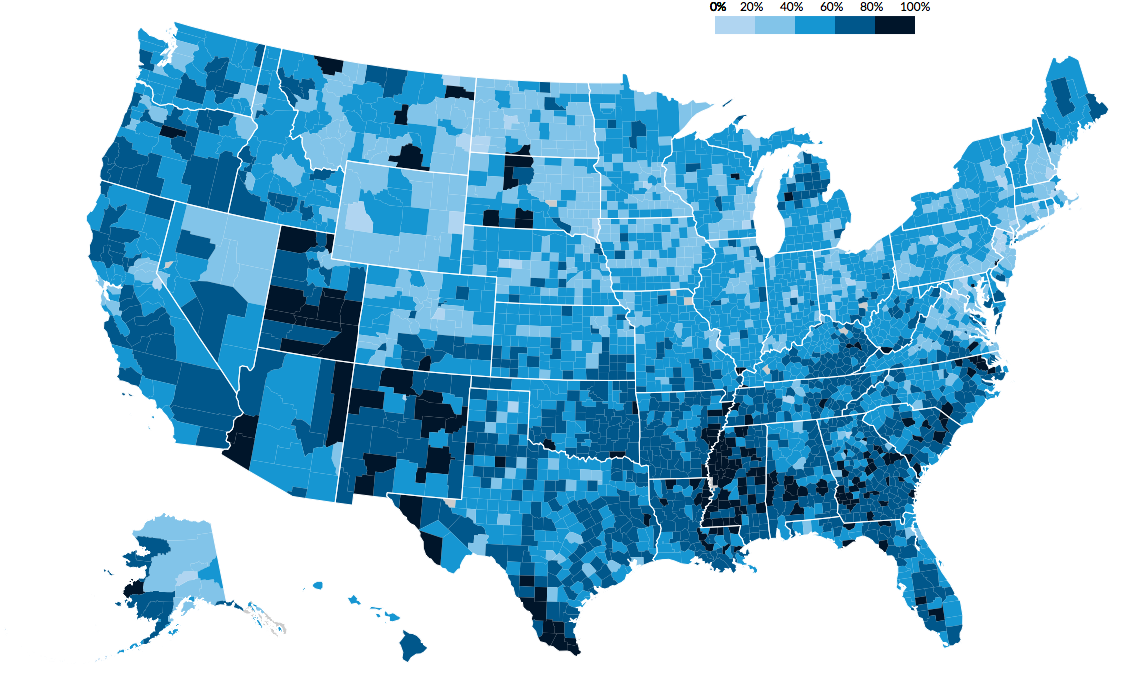
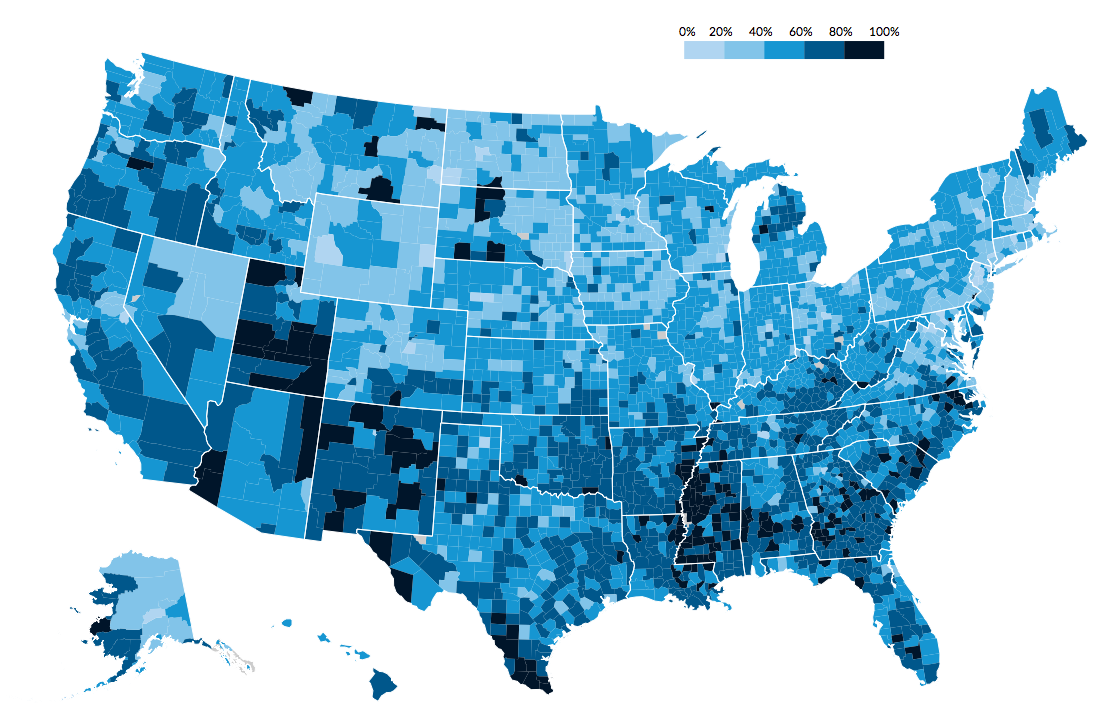
fixed legend left issue and updated examples

diff --git a/js/responsive-map.js b/js/responsive-map.js
@@ -40,7 +40,6 @@ d3.helper.tooltip = function (accessor) {
             .on("mouseout", function (d, i) {
                 tooltipDiv.remove();
             });
-
     };
 };
 
@@ -128,6 +127,20 @@ function urbanmap(container_width) {
         .enter().append("g")
         .attr("class", "legend");
 
+    lsvg.append("text")
+        .attr("x", lp_w - 5)
+        .attr("y", 15)
+        .text(formatter(legend_left));
+
+    legend.append("text")
+        .attr("x", function (d, i) {
+            return (i * ls_w) + lp_w + ls_w - 15;
+        })
+        .attr("y", 15)
+        .text(function (d, i) {
+            return formatter(d);
+        });
+
     legend.append("rect")
         .attr("x", function (d, i) {
             return (i * ls_w) + lp_w;
@@ -139,20 +152,6 @@ function urbanmap(container_width) {
         .style("fill", function (d, i) {
             return colors[i];
         })
-
-    legend.append("text")
-        .attr("x", function (d, i) {
-            return (i * ls_w) + lp_w + ls_w - 15;
-        })
-        .attr("y", 15)
-        .text(function (d, i) {
-            return formatter(d);
-        });
-
-    legend.append("text")
-        .attr("x", lp_w - 5)
-        .attr("y", 15)
-        .text(formatter(legend_left));
 
     var projection = d3.geo.albersUsa()
         .scale(width * 1.25)
@@ -190,7 +189,6 @@ function urbanmap(container_width) {
         .enter().append("path")
         .attr("d", path);
 
-    // This is calling an updated height.
     if (pymChild) {
         pymChild.sendHeight();
     }
@@ -203,9 +201,7 @@ $(window).load(function () {
                 us = json;
 
                 data.forEach(function (d) {
-                    //need to accommodate string fips, like in school poverty data (leading 0s)
                     d[countyid] = +d[countyid];
-                    //missing data! deal with it!
                     if (d[valuetomap] == nullcondition) {
                         value[d[countyid]] = null;
                     } else {
@@ -213,13 +209,12 @@ $(window).load(function () {
                     }
                 });
 
-                // This is instantiating the child message with a callback but AFTER the D3 charts are drawn.
                 pymChild = new pym.Child({
                     renderCallback: urbanmap
                 });
             })
         });
-    } else { // If not, rely on static fallback image. No callback needed.
+    } else { 
         pymChild = new pym.Child({});
     }
 });

diff --git a/index.html b/index.html
@@ -24,20 +24,14 @@
 <body>
     <h1>This is a page with some maps in it</h1>
 
-    <p>gjksfgdfjsgljdflkgjfdlkgjsldfkgk kgjdlfkjgldsf</p>
+    <p>Lorem ipsum dolor sit amet, consectetur adipiscing elit, sed do eiusmod tempor incididunt ut labore et dolore magna aliqua. Ut enim ad minim veniam, quis nostrud exercitation ullamco laboris nisi ut aliquip ex ea commodo consequat. Duis aute irure dolor in reprehenderit in voluptate velit esse cillum dolore eu fugiat nulla pariatur. Excepteur sint occaecat cupidatat non proident, sunt in culpa qui officia deserunt mollit anim id est laborum.</p>
     <div id="map1" class="map"></div>
-    <p>paragraph of texttttt</p>
-    <div id="map2" class="map"></div>
-    <p>paragraph of texttttt</p>
+    <p>Lorem ipsum dolor sit amet, consectetur adipiscing elit, sed do eiusmod tempor incididunt ut labore et dolore magna aliqua. Ut enim ad minim veniam, quis nostrud exercitation ullamco laboris nisi ut aliquip ex ea commodo consequat. Duis aute irure dolor in reprehenderit in voluptate velit esse cillum dolore eu fugiat nulla pariatur. Excepteur sint occaecat cupidatat non proident, sunt in culpa qui officia deserunt mollit anim id est laborum.</p>
     <div id="map3" class="map"></div>
-    <p>paragraph of texttttt</p>
 
     <script type="text/javascript" src="lib/pym.min.js"></script>
     <script>
         var pymParent = new pym.Parent('map1', 'map1.html', {});
-    </script>
-    <script>
-        var second = new pym.Parent('map2', 'map2.html', {});
     </script>
     <script>
         var second = new pym.Parent('map3', 'map3.html', {});

diff --git a/map3.html b/map3.html
@@ -10,7 +10,7 @@
 
 <body>
 
-    <h2>Map #3 - counts, custom four-color palette</h2>
+    <h2>Map #3 - counts instead of %, custom four-color palette and missing color</h2>
     <div id="legend"></div>
     <div id="map"><img src="img/fallback2.png" alt="[Map]" /></div>
     <div class="footnote"><p>Source: Urban Institute, 2015</p></div>
@@ -27,7 +27,8 @@
         data_url = "data/schoolpoverty.csv",
             valuetomap = "TotalBlack",
             countyid = "fipscounty",
-            colors = ["#feebe2","#fbb4b9","#f768a1","#ae017e"]
+            colors = ["#feebe2","#fbb4b9","#f768a1","#ae017e"],
+            missingcolor = "#000",
             breaks = [200,1000,20000],
             legend_breaks = [200,1000,20000,125000],
             formatter = d3.format('.2s');

diff --git a/map1.html b/map1.html
@@ -10,7 +10,7 @@
 
 <body>
 
-    <h2>Map #1</h2>
+    <h2>Map #1 - all defaults</h2>
     <div id="legend"></div>
     <div id="map"><img src="img/fallback1.png" alt="[Map]" /></div>
     <div class="footnote"><p>Source: Urban Institute, 2015</p></div>
@@ -27,10 +27,7 @@
         data_url = "data/schoolpoverty.csv",
             valuetomap = "PercentPoor_NCES",
             countyid = "fipscounty";
-        //colors = palette.blue3,
-        //breaks = [0.333, 0.666],
-        //legend_breaks = [0.333, 0.666, 1];
-
+        
         var pymChild = new pym.Child();
     </script>
 

diff --git a/README.md b/README.md
@@ -6,35 +6,48 @@ d3 template for county and state level maps using Urban's style
 * Responsive using [pym.js](https://github.com/nprapps/pym.js)
 * Use Urban's [datatools embed](https://github.com/UrbanInstitute/datatools-embed) for wrapper
 
-###Example use: body of the child index, using all defaults except color of missing data:
-From [map2.html](/map2.html)
+##Usage
+###All defaults
+From [map1.html](/map1.html)
 ```html
 <body>
 
-    <h2>Map #2 with custom missing color</h2>
+   <h2>Map #1 - all defaults</h2>
     <div id="legend"></div>
-    <div id="map"></div>
-    <div class="footnote">Source: Urban Institute, 2015</div>
+    <div id="map"><img src="img/fallback1.png" alt="[Map]" /></div>
+    <div class="footnote"><p>Source: Urban Institute, 2015</p></div>
 
     <script src="lib/jquery.js"></script>
-    <script src="lib/modernizr.svg.min.js"></script>
     <script src="lib/d3.v3.min.js"></script>
+    <script src="lib/modernizr.svg.min.js"></script>
     <script src="lib/topojson.v1.min.js"></script>
     <script src="lib/pym.min.js"></script>
-    <script src="js/tooltip.js"></script>
     <script src="js/colorpalettes.js"></script>
     <script src="js/responsive-map.js"></script>
 
     <script>
-        data_url = "data/test.csv",
-            valuetomap = "PctPoorinPoorSchools",
-            countyid = "fips",
-            missingcolor = "#b12a6d";
-
+        data_url = "data/schoolpoverty.csv",
+            valuetomap = "PercentPoor_NCES",
+            countyid = "fipscounty";
+        
         var pymChild = new pym.Child();
     </script>
 
 </body>
+```
+###Customs
+From [map3.html](/map3.html)
+```javascript
+    data_url = "data/schoolpoverty.csv",
+        valuetomap = "TotalBlack",
+        countyid = "fipscounty",
+        colors = ["#feebe2","#fbb4b9","#f768a1","#ae017e"],
+        missingcolor = "#000",
+        breaks = [200,1000,20000],
+        legend_breaks = [200,1000,20000,125000],
+        formatter = d3.format('.2s');
+
+    var pymChild = new pym.Child();
 ```
 
 ###Things for the user to define
